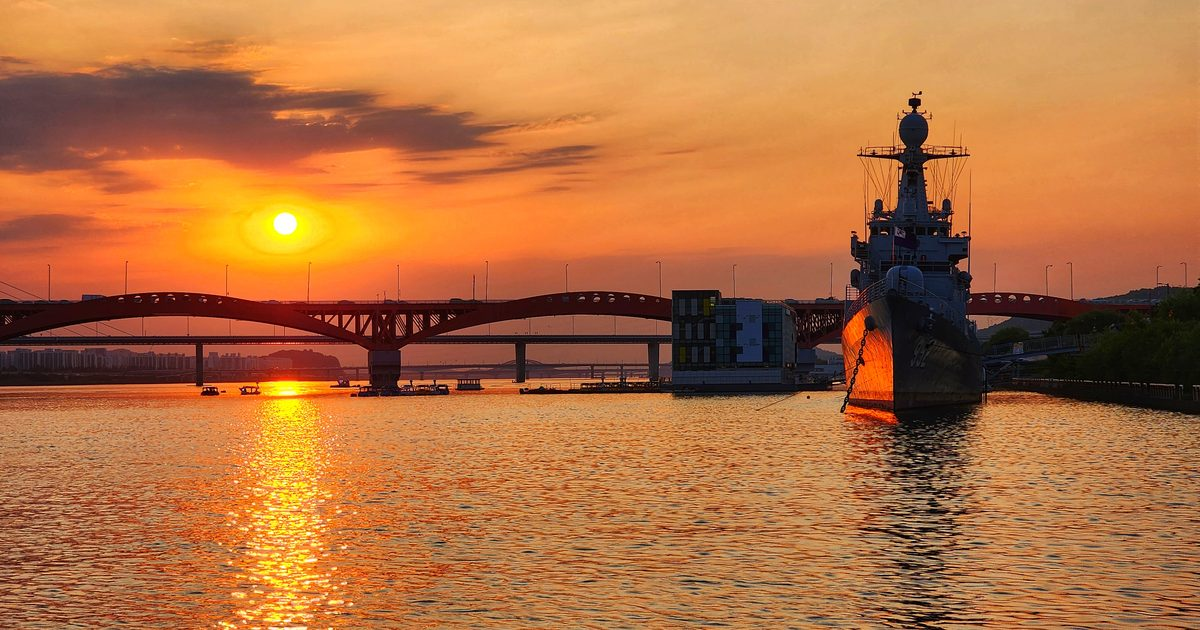
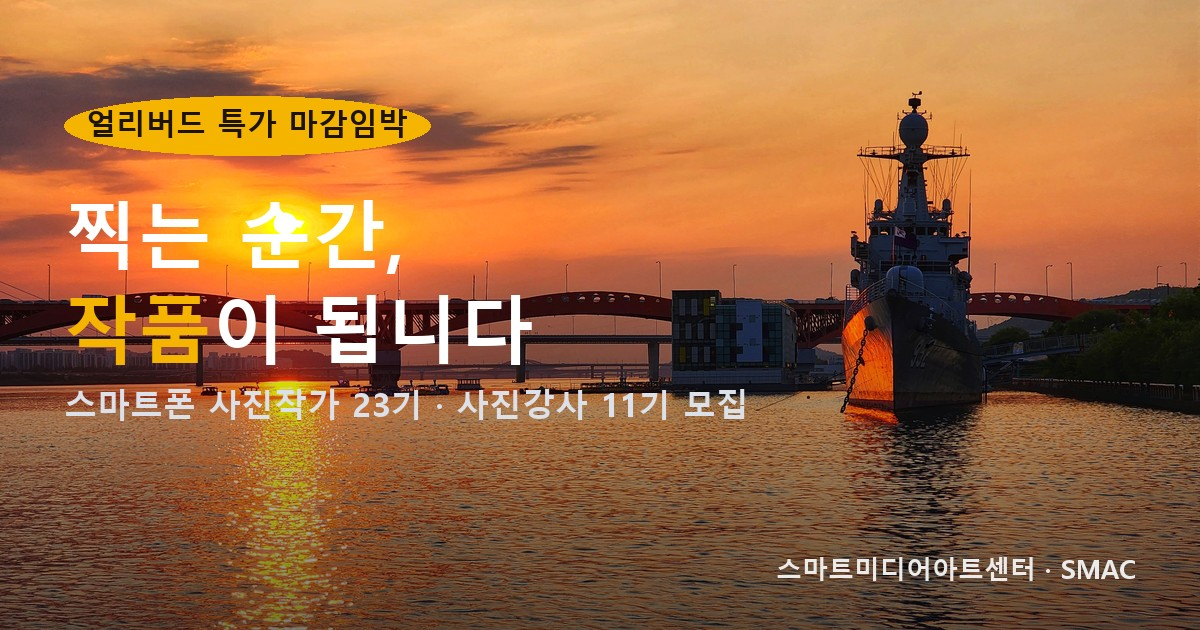
Give the mobile hero more breathing room, add a bold headline overlay to the OG image
Mobile: bump wrap/urgency-bar side padding and shrink the hero heading slightly on narrow screens so text isn't packed edge-to-edge. Kakao/social preview: overlay a bold headline + urgency badge on the OG photo (was a plain scenic photo with no hook), version-bumped to bust the Kakao image cache.

diff --git a/photo-artist-instructor.html b/photo-artist-instructor.html
@@ -11,13 +11,13 @@
   <meta property="og:url" content="https://www.smacedu.kr/photo-artist-instructor" />
   <meta property="og:title" content="스마트폰 사진작가 23기 · 사진강사 11기 모집 — 스마트미디어아트센터" />
   <meta property="og:description" content="촬영도 안 배웠는데 사진작가? 스마트폰 하나로 6주 만에 작품을 만드는 사진작가 과정, 8주 만에 자격증을 발급하는 강사가 되는 사진강사 과정. 하나의 신청서로 모두 신청하세요." />
-  <meta property="og:image" content="https://www.smacedu.kr/images/photo-artist-instructor-og.jpg?v=1" />
+  <meta property="og:image" content="https://www.smacedu.kr/images/photo-artist-instructor-og.jpg?v=2" />
   <meta property="og:image:width" content="1200" />
   <meta property="og:image:height" content="630" />
   <meta name="twitter:card" content="summary_large_image" />
   <meta name="twitter:title" content="스마트폰 사진작가 23기 · 사진강사 11기 모집 — 스마트미디어아트센터" />
   <meta name="twitter:description" content="촬영도 안 배웠는데 사진작가? 스마트폰 하나로 6주 만에 작품을 만드는 사진작가 과정, 8주 만에 자격증을 발급하는 강사가 되는 사진강사 과정. 하나의 신청서로 모두 신청하세요." />
-  <meta name="twitter:image" content="https://www.smacedu.kr/images/photo-artist-instructor-og.jpg?v=1" />
+  <meta name="twitter:image" content="https://www.smacedu.kr/images/photo-artist-instructor-og.jpg?v=2" />
 <style>
   :root {
     --bg: #f7f5ef;
@@ -84,11 +84,12 @@
   ul, dl { margin: 0; padding: 0; list-style: none; }
 
   .wrap { max-width: 1040px; margin: 0 auto; padding: 0 24px; }
+  @media (max-width: 640px) { .wrap { padding: 0 28px; } }
 
   a:focus-visible, button:focus-visible { outline: 3px solid var(--orange); outline-offset: 3px; }
 
   /* ---------- urgency bar ---------- */
-  .urgency-bar { background: var(--gold); color: var(--gold-ink); text-align: center; padding: 10px 16px; font-size: 14.5px; font-weight: 700; }
+  .urgency-bar { background: var(--gold); color: var(--gold-ink); text-align: center; padding: 10px 24px; font-size: 14.5px; font-weight: 700; }
 
   /* ---------- nav ---------- */
   .site-nav {
@@ -121,10 +122,11 @@
     display: inline-block; font-size: 14.5px; font-weight: 800; color: var(--gold-ink);
     background: var(--gold); padding: 8px 18px; border-radius: 999px; margin-bottom: 26px;
   }
-  .hero h1 { font-size: clamp(2.2rem, 6vw, 3.8rem); line-height: 1.22; text-shadow: 0 2px 20px rgba(0,0,0,0.35); }
+  .hero h1 { font-size: clamp(2rem, 6vw, 3.8rem); line-height: 1.28; text-shadow: 0 2px 20px rgba(0,0,0,0.35); }
   .hero h1 em { font-style: normal; color: var(--gold); }
   .hero-pain { margin-top: 20px; max-width: 44ch; font-size: 19px; font-weight: 700; color: #fff; }
   .hero-sub { margin-top: 12px; max-width: 46ch; font-size: 16.5px; color: rgba(255,255,255,0.72); }
+  @media (max-width: 480px) { .hero h1 { font-size: 1.8rem; } .hero-pain { font-size: 17px; } }
 
   .badge-row { margin-top: 30px; display: flex; gap: 14px; flex-wrap: wrap; }
   .badge-chip { display: flex; align-items: center; gap: 8px; background: rgba(255,255,255,0.08); border: 1px solid rgba(255,255,255,0.18); padding: 10px 16px; border-radius: 999px; font-size: 14px; font-weight: 700; }
